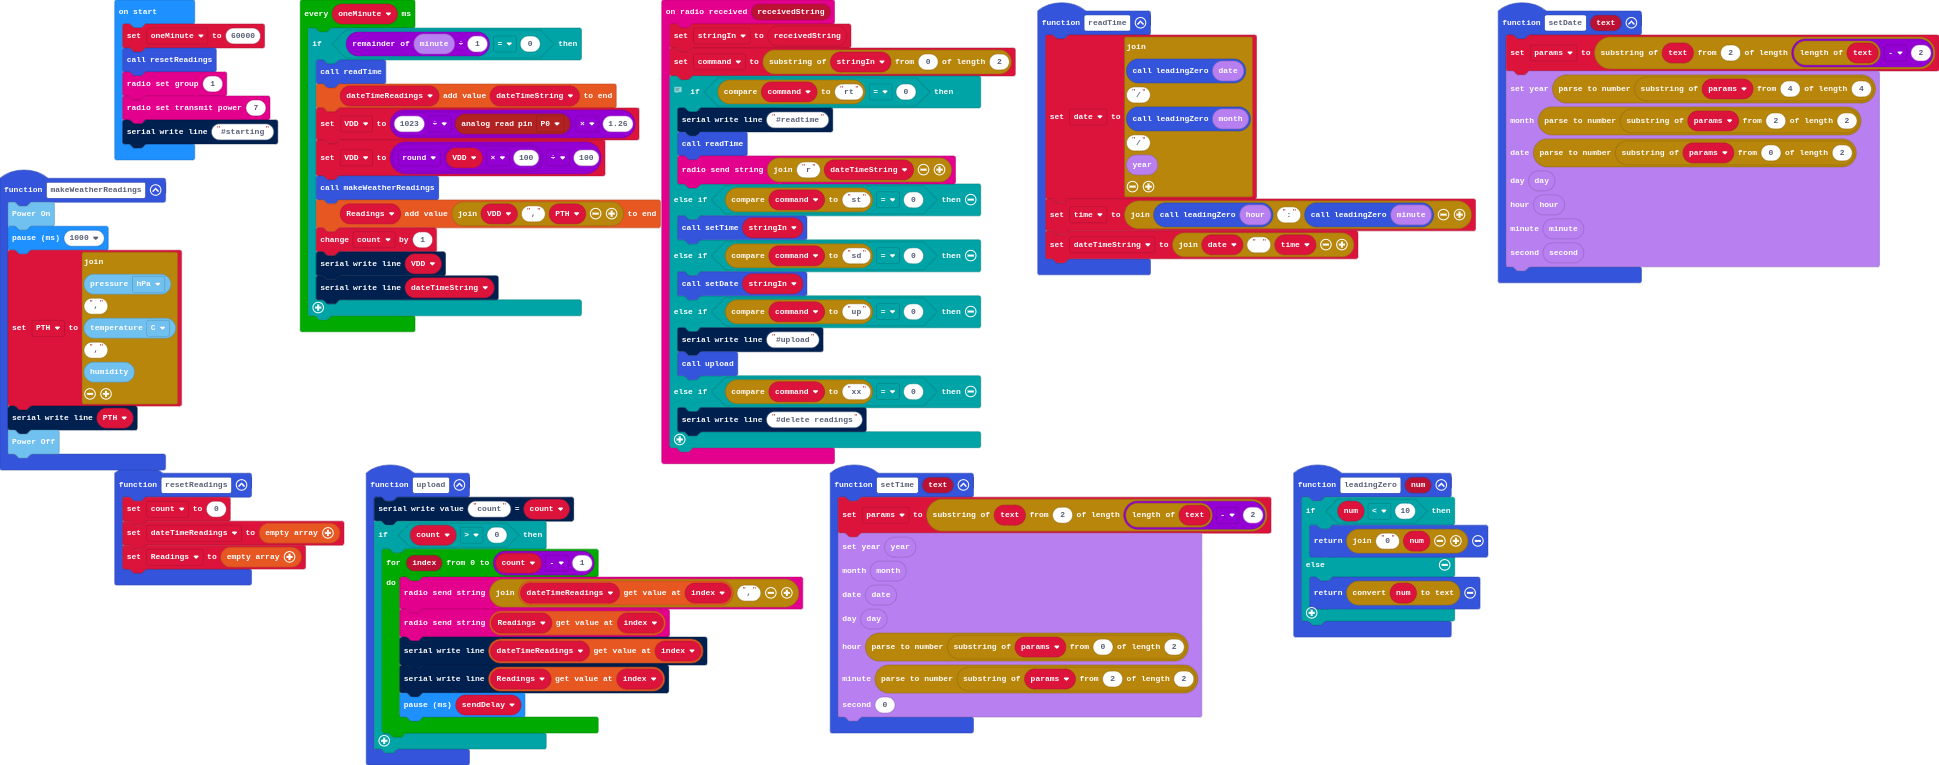
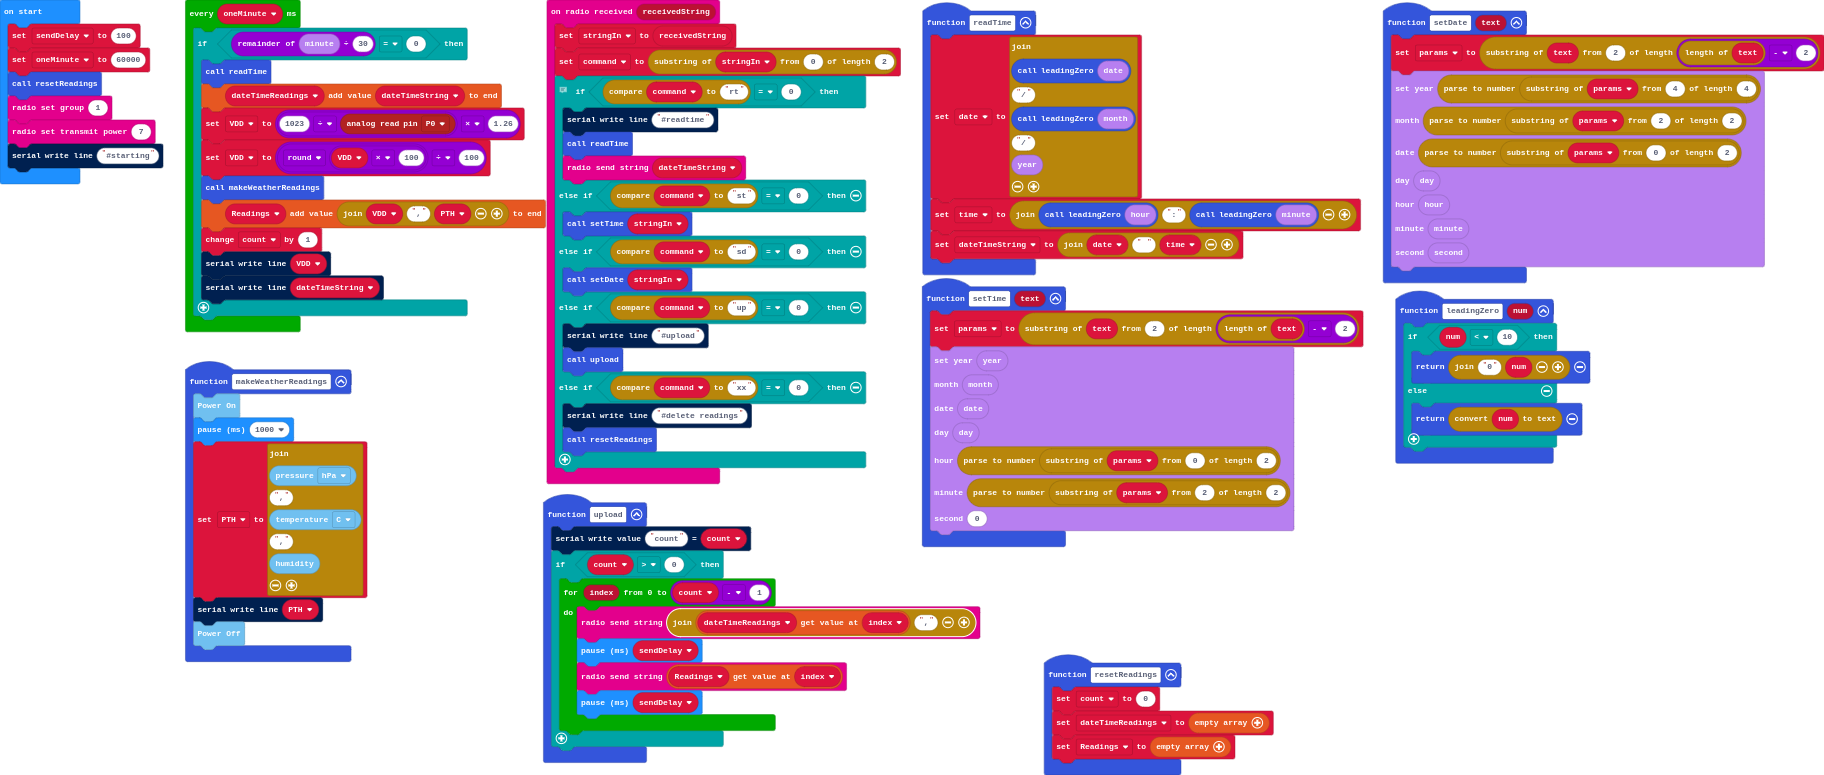
tweaks

diff --git a/main.ts b/main.ts
@@ -31,11 +31,9 @@ function upload () {
     serial.writeValue("count", count)
     if (count > 0) {
         for (let index = 0; index <= count - 1; index++) {
-            let sendDelay = 0
             radio.sendString("" + dateTimeReadings[index] + ",")
+            basic.pause(sendDelay)
             radio.sendString("" + (Readings[index]))
-            serial.writeLine("" + (dateTimeReadings[index]))
-            serial.writeLine("" + (Readings[index]))
             basic.pause(sendDelay)
         }
     }
@@ -68,7 +66,7 @@ radio.onReceivedString(function (receivedString) {
     if (command.compare("rt") == 0) {
         serial.writeLine("#readtime")
         readTime()
-        radio.sendString("r" + dateTimeString)
+        radio.sendString(dateTimeString)
     } else if (command.compare("st") == 0) {
         setTime(stringIn)
     } else if (command.compare("sd") == 0) {
@@ -78,6 +76,7 @@ radio.onReceivedString(function (receivedString) {
         upload()
     } else if (command.compare("xx") == 0) {
         serial.writeLine("#delete readings")
+        resetReadings()
     }
 })
 let VDD = 0
@@ -91,13 +90,15 @@ let count = 0
 let dateTimeString = ""
 let time = ""
 let date = ""
+let sendDelay = 0
+sendDelay = 100
 let oneMinute = 60000
 resetReadings()
 radio.setGroup(1)
 radio.setTransmitPower(7)
 serial.writeLine("#starting")
 loops.everyInterval(oneMinute, function () {
-    if (DS3231.minute() % 1 == 0) {
+    if (DS3231.minute() % 30 == 0) {
         readTime()
         dateTimeReadings.push(dateTimeString)
         VDD = 1023 / pins.analogReadPin(AnalogPin.P0) * 1.26
